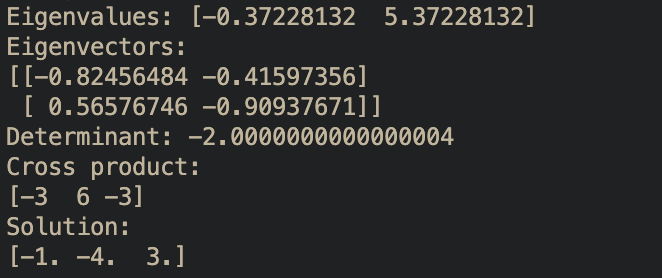
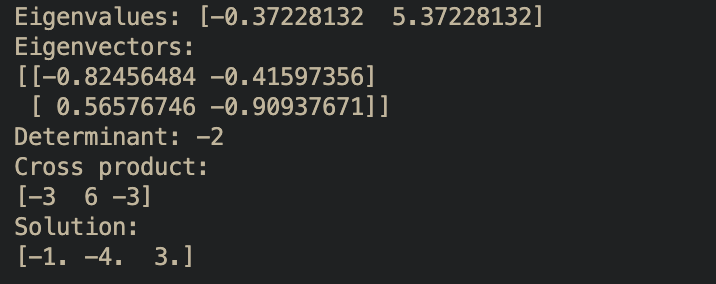
second

Changed region(s): [[0.0, 0.0, 0.8157, 0.9496], [0.2115, 0.8633, 0.3021, 0.9496]]

diff --git a/Q1/q1.py b/Q1/q1.py
@@ -1,29 +1,35 @@
 import numpy as np
 
+def determinant2by2(a) :
+    return a[0, 0]*a[1, 1]-a[0, 1]*a[1, 0]
+
 def main() :
     vec1 = np.array([1,2,3])
     vec2 = np.array([4,5,6])
 
-    arr = np.array([[1,2],[3,4]])
+    arr = np.array([[1,2], [3,4]])
     eigen_vals, eigen_vectors = np.linalg.eig(arr)
-    determinant = np.linalg.det(arr)
+    determinant = determinant2by2(arr)
+    
+    #determinant = np.linalg.det(arr)
+    #it returns -2.0000000000000004, which is incorect.
+    #to test bigger n*n matrix, please use this
+    
     print("Eigenvalues:", eigen_vals)
     print("Eigenvectors:")
     print(eigen_vectors)
+
     print("Determinant:", determinant)
     
     cross_product = np.cross(vec1, vec2)
-    
     print("Cross product:")
     print(cross_product)
 
-    A = np.array([1,2,-2,2,1,-5,1,-4,1]).reshape(3,3)
+    A = np.array([[1,2,-2],[2,1,-5],[1,-4,1]])
     solution = np.matmul(np.linalg.inv(A), np.array([-15,-21,18]))
     print("Solution:")
     print(solution)
 
-
 if __name__ == "__main__" :
     main()
-
 

diff --git a/Q2/q2.py b/Q2/q2.py
@@ -7,12 +7,12 @@ def main() :
         [1,1,0,1,0,0]
     ])
     
-    query = [1,1,0,0,1,0]
-    query_norm = np.dot(query, query)
+    query = np.array([1,1,0,0,1,0])
+    query_norm = np.sqrt(np.dot(query, query))
 
     cosine_similarity = []
     for i in docs : 
-        cos_sim_norm = np.dot(i, i)
+        cos_sim_norm = np.sqrt(np.dot(i, i))
         cosine_similarity.append(
             np.dot(i, query)/(query_norm * cos_sim_norm)
         )

diff --git a/README.md b/README.md
@@ -1,0 +1,4 @@
+# Opensource 입문 HW7
+### 개발환경 : Macbook OS X, Vscode
+#### Q1에서 numpy의 linalg.det 함수를 사용하면, -2.0000000000000004 이런식으로 값이 표시되었기 때문에 이를 직접 사용하여 부정확한 값을 얻기 보다는 직접 2*2 행렬의 Determinant를 계산하는 함수를 하나 만들어서 값을 얻었습니다.
+#### 만약 더 큰 N x N 행렬을 테스트하셔야 한다면 주석 처리해놓은 코드를 대신 사용해주세요.
